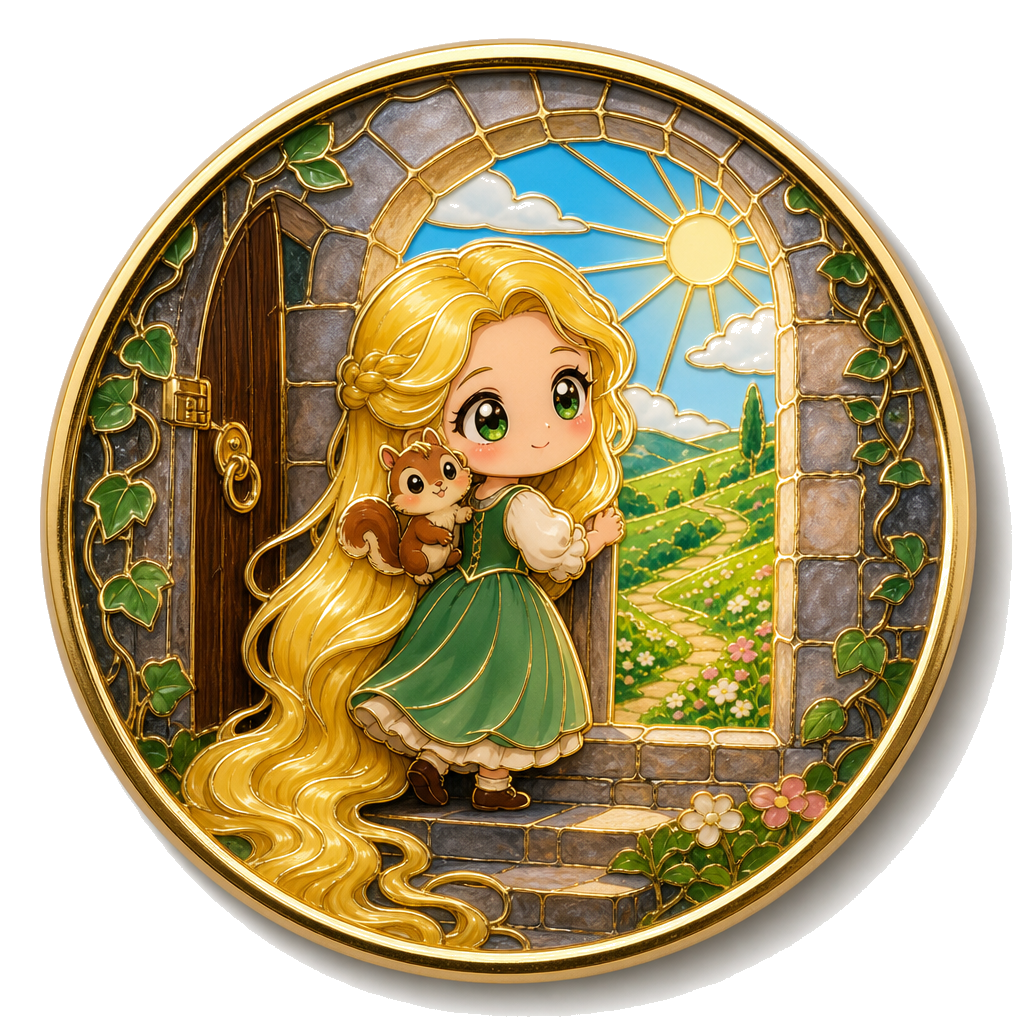
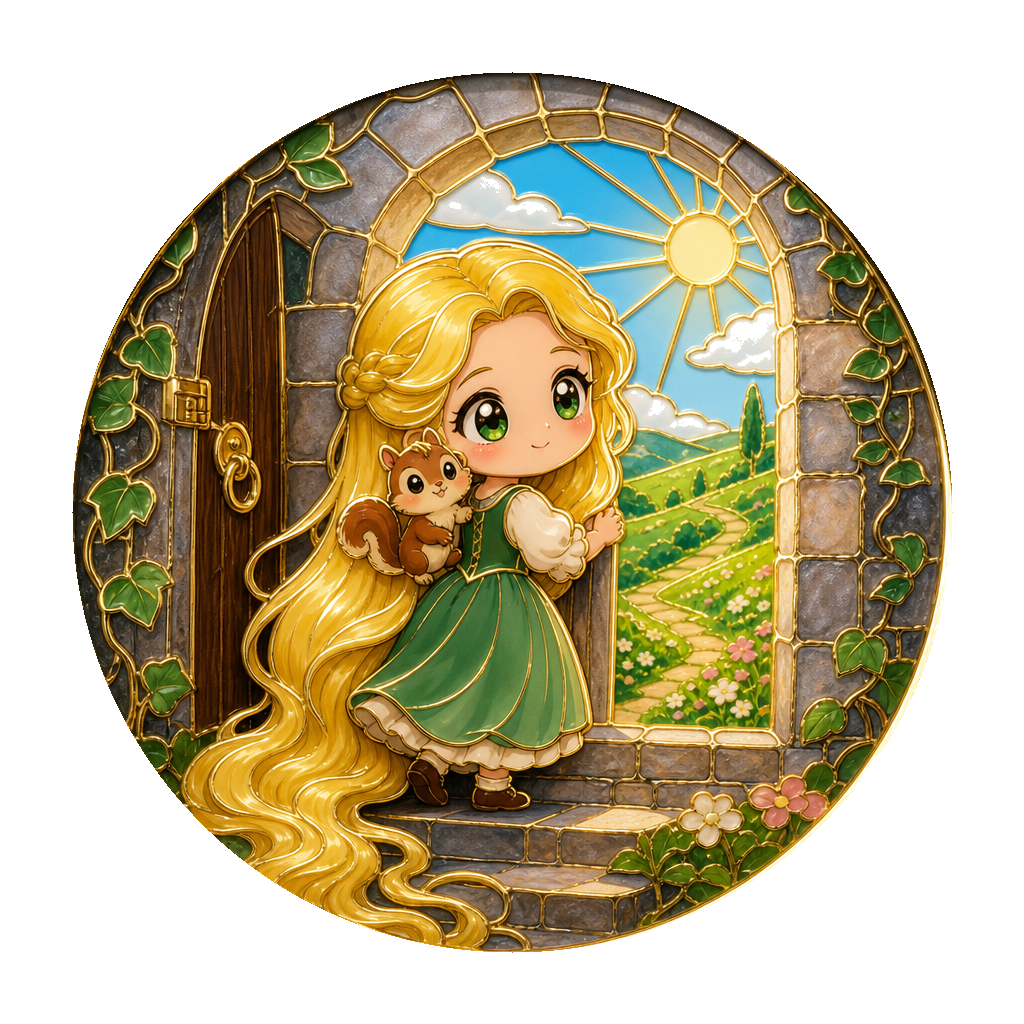
fix(blindbox): rapunzel_7 去背 + 去掉 b-card 双层框
- rapunzel_7.png: 多层去背 (4 层: >245 + low-sat>220 + >220 + outer ring), 外圈不透明像素 77637→0
- achievements.html: .b-card 去掉内层 background/border/box-shadow, badge 直接浮在外层白色容器上
- 备份: rapunzel_7.png.bak (不提交)

diff --git a/src/kid_app/templates/achievements.html b/src/kid_app/templates/achievements.html
@@ -151,9 +151,9 @@
       transition: box-shadow 0.2s, transform 0.2s;
     }
     .b-card.unlocked {
-      background: #fffdf8;
-      border: 1.5px solid #f0e0a0;
-      box-shadow: 0 2px 10px rgba(200,160,40,0.1);
+      background: transparent;
+      border: none;
+      box-shadow: none;
     }
     .b-card.unlocked::before {
       content: '';
@@ -164,12 +164,12 @@
       pointer-events: none;
     }
     .b-card.unlocked:hover {
-      box-shadow: 0 6px 20px rgba(200,160,40,0.22);
+      box-shadow: none;
       transform: translateY(-2px);
     }
     .b-card.locked {
-      background: #fffdf8;
-      border: 1.5px solid #ece8e0;
+      background: transparent;
+      border: none;
     }
     /* 锁卡：CSS filter 直接灰化原图，简单可靠 */
     .b-card.locked .b-name { color: #bbb; }
@@ -178,7 +178,7 @@
       filter: grayscale(0.8) brightness(1.1) contrast(0.9);
     }
     .b-card.locked .b-img-wrap {
-      background-color: #fffdf8;
+      background-color: transparent;
     }
 
     /* 徽章尺寸：iPad横屏150px，hover放大 */
